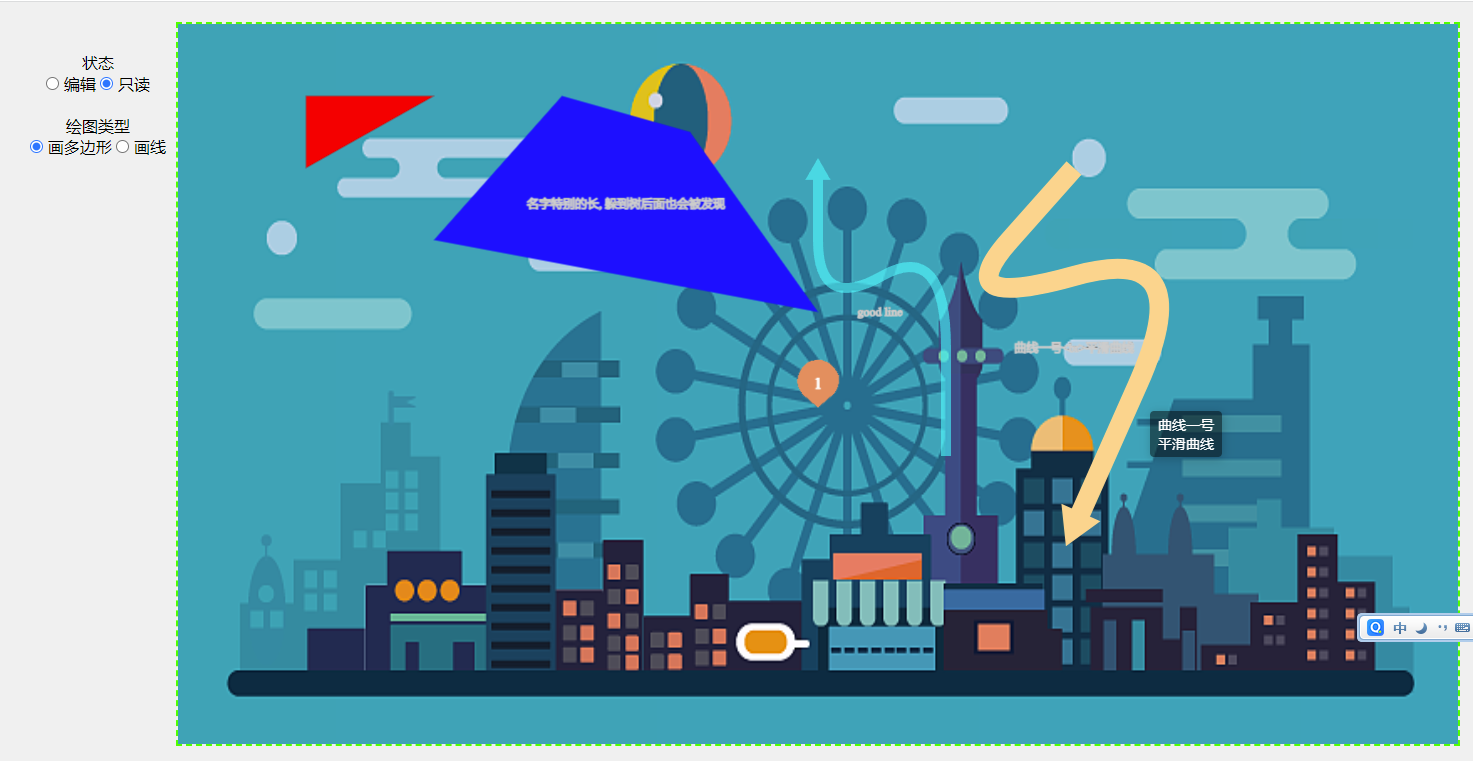
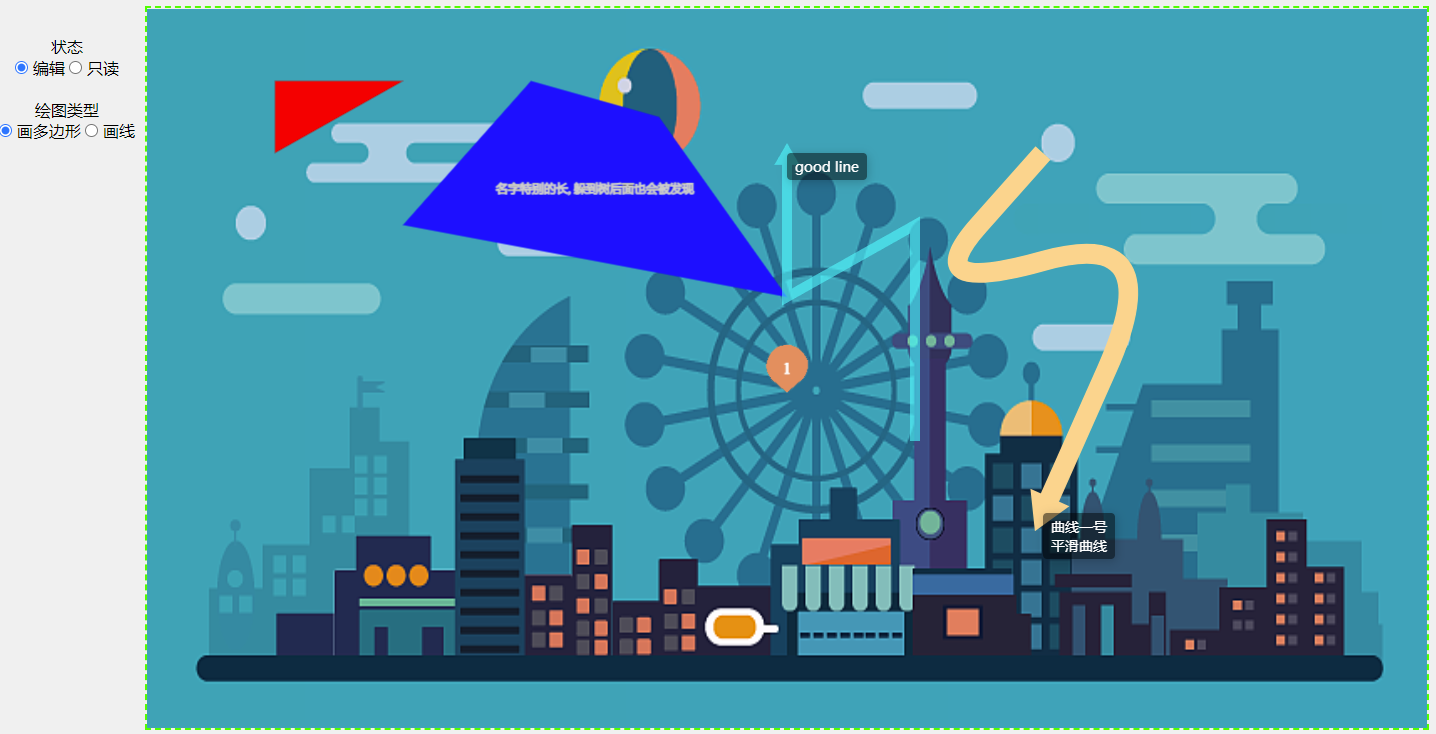
feat: 支持折线

diff --git a/src/graphs/LineGraph.ts b/src/graphs/LineGraph.ts
@@ -24,6 +24,7 @@ const closedCfg: fabric.IPathOptions = {
 }
 
 export class LineGraph<T = any> extends Graphic {
+  smooth: boolean
   stroke: string
   strokeWidth: number
 
@@ -34,6 +35,8 @@ export class LineGraph<T = any> extends Graphic {
     super(ctx, cfg)
     this.stroke = cfg.stroke ?? closedCfg.stroke
     this.strokeWidth = cfg.strokeWidth ?? closedCfg.strokeWidth
+    this.smooth = cfg.smooth ?? this.ctx.config.smooth ?? true
+
     if (cfg.closed) {
       this.addClosedListeners()
     } else {
@@ -121,7 +124,10 @@ export class LineGraph<T = any> extends Graphic {
 
   getPathStr() {
     const dots = this.closed ? this.dots : [...this.dots, this.movePointer]
-    return this.ctx.makeSvgCurvePath(dots, this.closed)
+    const arrowShow = this.ctx.config.arrowShow
+    return this.smooth
+      ? this.ctx.makeSvgCurvePath(dots, this.closed && arrowShow)
+      : this.ctx.getPathStr(dots, this.closed && arrowShow, true)
   }
 
   private recoverStroke() {
@@ -131,5 +137,9 @@ export class LineGraph<T = any> extends Graphic {
     super.destroy()
     this.ctx.off('canvas.scale', this.updateTooltipPos)
     this.ctx.off('canvas.pan', this.updateTooltipPos)
+    if (this.ctx.config.alwaysShowTip && this.tooltip) {
+      this.tooltip.remove()
+      this.tooltip = null
+    }
   }
 }

diff --git a/src/Sketchpad.ts b/src/Sketchpad.ts
@@ -235,13 +235,18 @@ export abstract class Sketchpad extends EventEmitter {
     return dot
   }
 
-  getPathStr(dots: fabric.IPoint[]) {
+  getPathStr(dots: fabric.IPoint[], arrow = false, opened = false) {
     if (dots.length < 2) return ''
     const start = 'M '
-    const middle = dots.filter(Boolean).map(({x, y}) => {
-      return `${x},${y}`
+    dots = dots.filter(Boolean)
+    let middle = dots.map(({x, y}) => {
+      return `${x} ${y}`
     }).join('L')
-    const end = ' z'
+    if (arrow) {
+      const arrowPath = this.makeArrowPath(dots[dots.length - 1], dots[dots.length - 2])
+      middle += arrowPath.flat().join(' ')
+    }
+    const end = opened ? '' : ' z'
     return start + middle + end
   }
   add2Cvs(...objs: fabric.Object[]) {

diff --git a/test/testGraph.html b/test/testGraph.html
@@ -42,11 +42,11 @@
   <div class="ops">
     <div>状态</div>
     <label onClick="toggleEditable(true)">
-      <input name="editable" type="radio" checked>
+      <input name="editable" type="radio">
       编辑
     </label>
     <label onClick="toggleEditable(false)">
-      <input name="editable" type="radio">
+      <input name="editable" type="radio" checked>
       只读
     </label>
     <br>
@@ -114,6 +114,7 @@
       id: '4',
       name: 'good line',
       nameVisible: false,
+      smooth: false,
       stroke: 'rgba(0, 250, 255, 0.6)',
       strokeWidth: 10,
       path: [{x: 0.5, y: 0.2}, {x: 0.5, y: 0.4}, {x: 0.6, y: 0.3}, {x: 0.6, y: 0.6}].reverse()

diff --git a/src/graphs/Graphic.ts b/src/graphs/Graphic.ts
@@ -3,7 +3,7 @@ import {DrawType, GraphicDrawer} from '../GraphicDrawer'
 import {Sketchpad} from '../Sketchpad'
 import {setStyle} from '../util'
 
-export type GraphicCfg = {
+export interface GraphicCfg {
   id?: string
   name?: string
   closed?: boolean
@@ -11,6 +11,7 @@ export type GraphicCfg = {
   stroke?: string
   strokeWidth?: number
   group?: string
+  smooth?: boolean
   evented?: boolean
   nameVisible?: boolean
   path?: fabric.IPoint[]

diff --git a/src/GraphicDrawer.ts b/src/GraphicDrawer.ts
@@ -93,6 +93,7 @@ export class GraphicDrawer<GDATA = any> extends Sketchpad {
       nameVisible: g.nameVisible,
       fill: g.fill || this.getFill(),
       stroke: g.stroke,
+      smooth: g.smooth,
       strokeWidth: g.strokeWidth,
       group,
       path: g.path.map(p => ({

diff --git a/src/type/drawer.d.ts b/src/type/drawer.d.ts
@@ -4,6 +4,8 @@ export interface SketchConfig {
   strokeWidth?: number
   lineStroke?: string
   arrowRadius?: number
+  arrowShow?: boolean
+  smooth?: boolean
   editable?: boolean
   formatter?: (param: unknown) => string
   hasShadow?: boolean

diff --git a/src/util/index.ts b/src/util/index.ts
@@ -4,6 +4,7 @@ export const defCfg: SketchConfig = {
   strokeWidth: 1,
   lineStroke: '#000',
   arrowRadius: 8,
+  arrowShow: true,
   editable: false,
   formatter: () => '',
   hasShadow: false,
